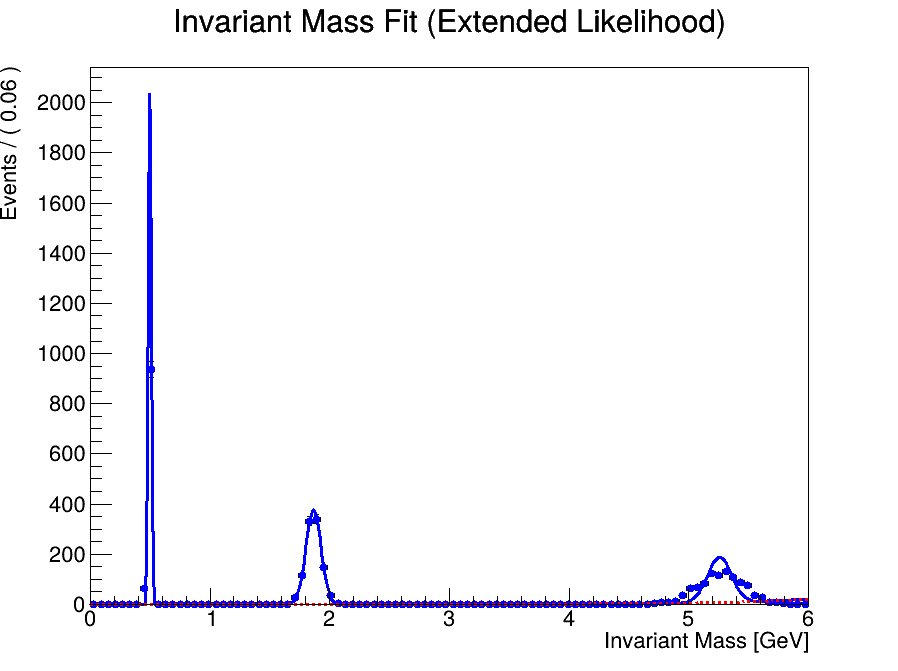
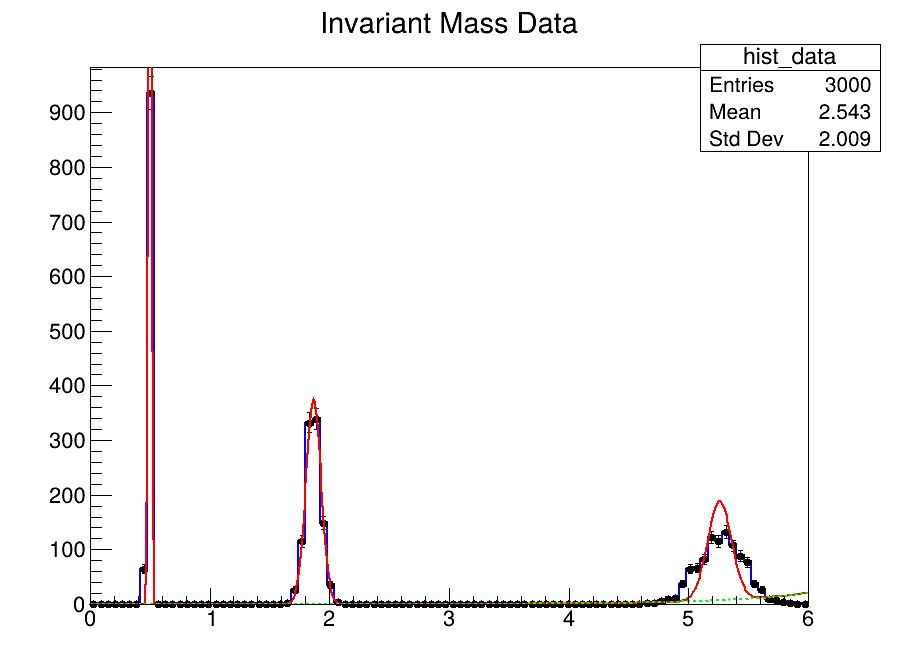
01.12

diff --git a/invmass++.py b/invmass++.py
@@ -1,4 +1,4 @@
-import ROOT 
+import ROOT
 import math
 import random
 import tqdm
@@ -43,9 +43,9 @@ def two_body_decay(parent, m1, m2):
     d2 = ROOT.Math.PxPyPzMVector(boost_vector(d2))
     return d1, d2
 
-
 random.seed(42)
 nParticles = 1000
+
 mass_pi_ch = 0.13957
 mass_k_zero = 0.497611
 mass_d_zero = 1.86484
@@ -59,7 +59,6 @@ for _ in tqdm.tqdm(range(nParticles)):
     mass_list.append((tracks_k0[0]+tracks_k0[1]).M())
     mass_list.append((tracks_d0[0]+tracks_d0[1]).M())
     mass_list.append((tracks_b0[0]+tracks_b0[1]).M())
-
 
 ROOT.RooMsgService.instance().setGlobalKillBelow(ROOT.RooFit.WARNING)
 x = ROOT.RooRealVar("x","Invariant Mass [GeV]",0,6)
@@ -99,16 +98,28 @@ print("\nFit results:")
 for name, var in [("K0",nK0),("D0",nD0),("B0",nB0),("Background",nBkg)]:
     print(f"{name}: N = {var.getVal():.1f} ± {var.getError():.1f}")
 
-c = ROOT.TCanvas("c","RooFit Example",900,700)
-frame = x.frame(ROOT.RooFit.Title("Invariant Mass Fit (Extended Likelihood)"))
+c = ROOT.TCanvas("c","Invariant Mass Fit",900,700)
 
-data.plotOn(frame, ROOT.RooFit.MarkerColor(ROOT.kBlue))
-model.plotOn(frame, ROOT.RooFit.LineColor(ROOT.kBlue))
+hist_data = ROOT.TH1F("hist_data","Invariant Mass Data", 100, 0, 6)
+for m in mass_list:
+    hist_data.Fill(m)
+hist_data.SetLineColor(ROOT.kBlue)
+hist_data.SetLineWidth(2)
+hist_data.Draw("HIST")
+
+frame = x.frame(ROOT.RooFit.Title(""))
+data.plotOn(frame)  # точки даних для масштабу
+
+model.plotOn(frame, ROOT.RooFit.LineColor(ROOT.kRed), ROOT.RooFit.LineWidth(2))  # модель червоною
 model.plotOn(frame, ROOT.RooFit.Components("bkg"),
-             ROOT.RooFit.LineStyle(ROOT.kDashed), ROOT.RooFit.LineColor(ROOT.kRed))
+             ROOT.RooFit.LineStyle(ROOT.kDashed),
+             ROOT.RooFit.LineColor(ROOT.kGreen),
+             ROOT.RooFit.LineWidth(2))  # фон зеленим
 
-frame.Draw()
+frame.Draw("SAME")
+
+c.Update()
 c.SaveAs("invmass++.png")
 c.SaveAs("invmass++.pdf")
-print("\nSaved plots: invmass++.png / .pdf")
+print("\nSaved plots: invmass++.png / invmass++.pdf")
 
